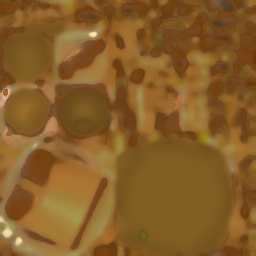
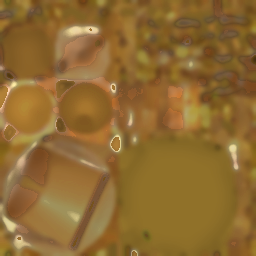
Storm Obelisk level 3 decluttered (judge prefers it 4 -> 3 vs 4); levels 1 and 2 keep their parts
Film d3b: all rules pass (level 3 yellow 9.9 %). Blind Codex: level 3 3 -> 4 ("its lighter stone base comes closer to
the painting"), kept; level 1 4 = 4 with before preferred and level 2 6 -> 5 (the re-projected paint lost its muted
purple): not kept, their earlier assets stay and the builder declutters only level 3.

diff --git a/art/blender/tower_storm_detail.py b/art/blender/tower_storm_detail.py
@@ -252,6 +252,8 @@ else:
         muzzle_z = top + 0.5 + P["orb_r"]
 
 print("MUZZLE Vector3.new(0.00, %.2f, 0.00)" % muzzle_z)
+if level == 3:   # (levels 1 and 2 decluttered lost the blind judge: they keep their parts)
+    K.declutter()   # (2026-11-27, busy-detail round)
 if not os.environ.get("HTD_FAST"):
     K.cull_hidden()
 K.finish_check()

diff --git a/reviews/towers/judge.md b/reviews/towers/judge.md
@@ -1153,3 +1153,57 @@ The three biggest flaws in **A**:
 2. **The weapons dominate the base.** Broaden and raise the stone tower slightly, with chunkier battlements, to restore the concept’s sturdy proportions.
 3. **The banners and masonry lack definition.** Enlarge the central red banner, add its pale border and emblem, and use warmer shadows between the large stone blocks.
 
+## the storm tower, level 1, as in the painting
+codex gpt-6.1-terra; A = after, B = before
+
+| Criterion | A | B |
+|---|---:|---:|
+| Reads as the painted tower at phone size | 4/10 | 4/10 |
+| Whole tower visible and well framed | 8/10 | 8/10 |
+| Shape and proportions true to the painting | 4/10 | 4/10 |
+| Colours and materials | 4/10 | 5/10 |
+
+**B is slightly better overall.** The two are very close, but B’s base reads a little more cleanly. Neither yet captures the heavy, carved-stone character of the painting.
+
+The three biggest flaws in B:
+
+1. **The obelisk looks like a white triangle.** The concept has a broad, irregular stone with a blunt, faceted top. Widen the upper body, flatten the peak, and add a few large, uneven stone planes.
+2. **The lightning rune breaks into purple fragments.** Make it one bold, continuous zigzag down the front, with a darker purple border and a restrained glow. It should remain recognisable at phone size.
+3. **The materials are too pale and indistinct.** Shift the stone toward warm sandstone, make the supports visibly dark brown wood, and enlarge the gold bands. Use stronger shadows where the supports meet the stone.
+
+## the storm tower, level 2, as in the painting
+codex gpt-6.1-terra; A = before, B = after
+
+| Criterion | A | B |
+|---|---:|---:|
+| Reads as the painted tower at phone size | 6/10 | 5/10 |
+| Whole tower visible and well framed | 5/10 | 5/10 |
+| Shape and proportions match the painting | 6/10 | 6/10 |
+| Colours and materials | 6/10 | 4/10 |
+
+**A is better overall.** Its darker, muted purple feels closer to the painted stone. B’s bright magenta makes the obelisk look flat and plastic.
+
+The three biggest flaws in A:
+
+1. **The crown disappears into the tree.** Give the tower a clear silhouette against the background; brighten and thicken the prongs and central finial so they remain legible on a phone.
+2. **The lightning symbol is too small and thin.** Enlarge it, widen the bolt and add the two diamond marks from the painting. Use a controlled pale-violet glow.
+3. **The lower structure is cramped and noisy.** Enlarge the cream stone base, simplify the gold trim, and make the dark wooden supports broader and more distinct. This will restore the painting’s sturdy foundation.
+
+## the storm tower, level 3, as in the painting
+codex gpt-6.1-terra; A = after, B = before
+
+**A is better overall.** Its lighter stone base comes closer to the painting and is easier to read at phone size.
+
+| Criterion | A | B |
+|---|---:|---:|
+| Reads as the painted tower | 4/10 | 3/10 |
+| Whole tower visible and well framed | 8/10 | 8/10 |
+| Shape and proportions | 4/10 | 4/10 |
+| Colours and materials | 5/10 | 4/10 |
+
+A’s three biggest remaining flaws:
+
+1. **The main body looks hollow and skeletal.** The painting has a solid, broad, dark tapered obelisk. Fill in the central shaft and give it continuous stone faces.
+2. **The signature lightning symbol is missing at this scale.** Add a large, bright purple lightning bolt to the front face, with enough contrast to read on a phone.
+3. **The silhouette is too thin and ring-heavy.** Widen the lower shaft, strengthen the chunky gold bands, and make the copper coils sit closer to the body. This will make the tower feel weighty instead of cage-like.
+
